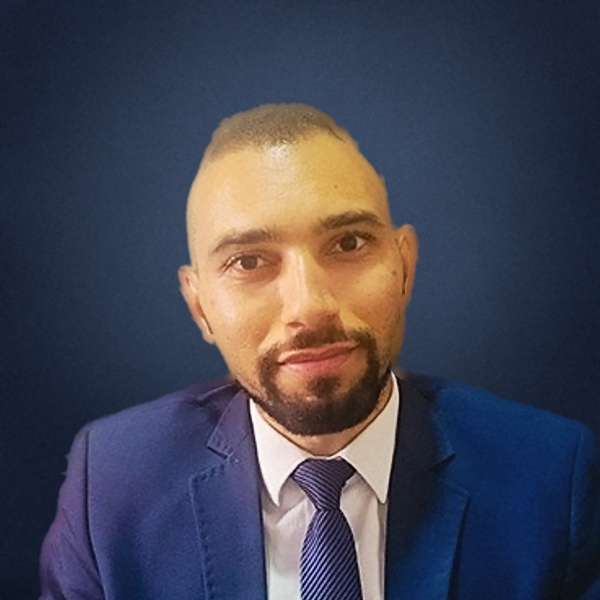
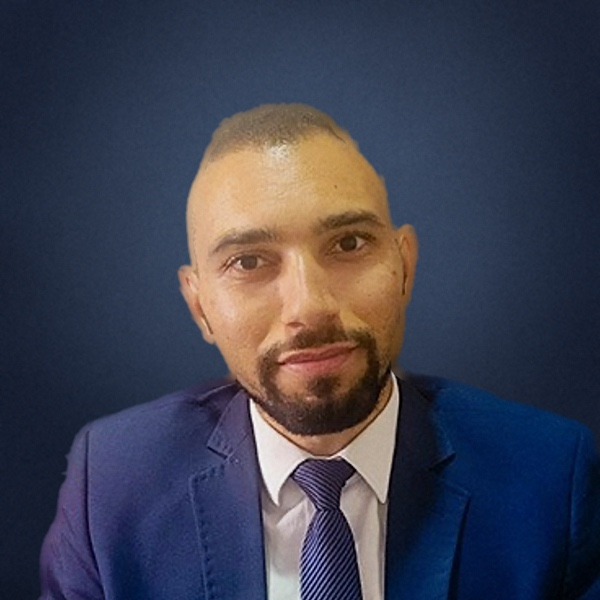
Équipe : Fatima Belassal et Siham Sabri retirées, portraits de Chakouri, Khalil et Tahiri refaits

Changed region(s): [[0.36, 0.36, 0.69, 0.66], [0.54, 0.3, 0.63, 0.36], [0.63, 0.63, 0.66, 0.72]]

diff --git a/ar/notre-equipe.html b/ar/notre-equipe.html
@@ -64,8 +64,6 @@
       <li class="member" data-reveal><div class="member-photo"><img src="../assets/img/equipe/sara-abassi.jpg" alt="الأستاذة سارة عباسي" width="600" height="600" loading="lazy"></div><h3>الأستاذة سارة عباسي</h3><p class="role">محامية</p><p class="role-en" lang="en">Lawyer</p></li>
       <li class="member" data-reveal><div class="member-photo"><img src="../assets/img/equipe/meryem-griou.jpg" alt="الأستاذة مريم كريو" width="600" height="600" loading="lazy"></div><h3>الأستاذة مريم كريو</h3><p class="role">محامية</p><p class="role-en" lang="en">Lawyer</p></li>
       <li class="member" data-reveal><div class="member-photo"><img src="../assets/img/equipe/mare-zakaria.jpg" alt="الأستاذ زكرياء الإدريسي" width="600" height="600" loading="lazy"></div><h3>الأستاذ زكرياء الإدريسي</h3><p class="role">محامٍ متمرن</p><p class="role-en" lang="en">Trainee lawyer</p></li>
-      <li class="member" data-reveal><div class="member-photo"><img src="../assets/img/equipe/fatima_belaasal.jpg" alt="فاطمة بلعسال" width="600" height="600" loading="lazy"></div><h3>فاطمة بلعسال</h3><p class="role">مسؤولة العلاقات مع المحاكم</p><p class="role-en" lang="en">Court relations manager</p></li>
-      <li class="member" data-reveal><div class="member-photo"><img src="../assets/img/equipe/siam.jpg" alt="سهام صبري" width="600" height="600" loading="lazy"></div><h3>سهام صبري</h3><p class="role">مسؤولة السكرتارية</p><p class="role-en" lang="en">Head of secretariat</p></li>
     </ul>
     <blockquote class="quote">
       <span class="quote-mark" aria-hidden="true" data-reveal>“</span>

diff --git a/es/notre-equipe.html b/es/notre-equipe.html
@@ -64,8 +64,6 @@
       <li class="member" data-reveal><div class="member-photo"><img src="../assets/img/equipe/sara-abassi.jpg" alt="Maître Sara ABASSI" width="600" height="600" loading="lazy"></div><h3>Maître Sara ABASSI</h3><p class="role">Abogada</p><p class="role-en" lang="en">Lawyer</p></li>
       <li class="member" data-reveal><div class="member-photo"><img src="../assets/img/equipe/meryem-griou.jpg" alt="Maître Meryem GRIOU" width="600" height="600" loading="lazy"></div><h3>Maître Meryem GRIOU</h3><p class="role">Abogada</p><p class="role-en" lang="en">Lawyer</p></li>
       <li class="member" data-reveal><div class="member-photo"><img src="../assets/img/equipe/mare-zakaria.jpg" alt="Maître Zakaria EL IDRISSI" width="600" height="600" loading="lazy"></div><h3>Maître Zakaria EL IDRISSI</h3><p class="role">Abogado en prácticas</p><p class="role-en" lang="en">Trainee lawyer</p></li>
-      <li class="member" data-reveal><div class="member-photo"><img src="../assets/img/equipe/fatima_belaasal.jpg" alt="Fatima Belassal" width="600" height="600" loading="lazy"></div><h3>Fatima Belassal</h3><p class="role">Responsable de relaciones con los tribunales</p><p class="role-en" lang="en">Court relations manager</p></li>
-      <li class="member" data-reveal><div class="member-photo"><img src="../assets/img/equipe/siam.jpg" alt="Siham SABRI" width="600" height="600" loading="lazy"></div><h3>Siham SABRI</h3><p class="role">Responsable de secretaría</p><p class="role-en" lang="en">Head of secretariat</p></li>
     </ul>
     <blockquote class="quote">
       <span class="quote-mark" aria-hidden="true" data-reveal>“</span>

diff --git a/notre-equipe.html b/notre-equipe.html
@@ -64,8 +64,6 @@
       <li class="member" data-reveal><div class="member-photo"><img src="assets/img/equipe/sara-abassi.jpg" alt="Maître Sara ABASSI" width="600" height="600" loading="lazy"></div><h3>Maître Sara ABASSI</h3><p class="role">Avocate</p><p class="role-en" lang="en">Lawyer</p></li>
       <li class="member" data-reveal><div class="member-photo"><img src="assets/img/equipe/meryem-griou.jpg" alt="Maître Meryem GRIOU" width="600" height="600" loading="lazy"></div><h3>Maître Meryem GRIOU</h3><p class="role">Avocate</p><p class="role-en" lang="en">Lawyer</p></li>
       <li class="member" data-reveal><div class="member-photo"><img src="assets/img/equipe/mare-zakaria.jpg" alt="Maître Zakaria EL IDRISSI" width="600" height="600" loading="lazy"></div><h3>Maître Zakaria EL IDRISSI</h3><p class="role">Apprenti avocat</p><p class="role-en" lang="en">Trainee lawyer</p></li>
-      <li class="member" data-reveal><div class="member-photo"><img src="assets/img/equipe/fatima_belaasal.jpg" alt="Fatima Belassal" width="600" height="600" loading="lazy"></div><h3>Fatima Belassal</h3><p class="role">Responsable des relations avec les tribunaux</p><p class="role-en" lang="en">Court relations manager</p></li>
-      <li class="member" data-reveal><div class="member-photo"><img src="assets/img/equipe/siam.jpg" alt="Siham SABRI" width="600" height="600" loading="lazy"></div><h3>Siham SABRI</h3><p class="role">Responsable Secrétariat</p><p class="role-en" lang="en">Head of secretariat</p></li>
     </ul>
     <blockquote class="quote">
       <span class="quote-mark" aria-hidden="true" data-reveal>“</span>

diff --git a/en/notre-equipe.html b/en/notre-equipe.html
@@ -64,8 +64,6 @@
       <li class="member" data-reveal><div class="member-photo"><img src="../assets/img/equipe/sara-abassi.jpg" alt="Maître Sara ABASSI" width="600" height="600" loading="lazy"></div><h3>Maître Sara ABASSI</h3><p class="role">Lawyer</p><p class="role-en" lang="en">Lawyer</p></li>
       <li class="member" data-reveal><div class="member-photo"><img src="../assets/img/equipe/meryem-griou.jpg" alt="Maître Meryem GRIOU" width="600" height="600" loading="lazy"></div><h3>Maître Meryem GRIOU</h3><p class="role">Lawyer</p><p class="role-en" lang="en">Lawyer</p></li>
       <li class="member" data-reveal><div class="member-photo"><img src="../assets/img/equipe/mare-zakaria.jpg" alt="Maître Zakaria EL IDRISSI" width="600" height="600" loading="lazy"></div><h3>Maître Zakaria EL IDRISSI</h3><p class="role">Trainee lawyer</p><p class="role-en" lang="en">Trainee lawyer</p></li>
-      <li class="member" data-reveal><div class="member-photo"><img src="../assets/img/equipe/fatima_belaasal.jpg" alt="Fatima Belassal" width="600" height="600" loading="lazy"></div><h3>Fatima Belassal</h3><p class="role">Court relations manager</p><p class="role-en" lang="en">Court relations manager</p></li>
-      <li class="member" data-reveal><div class="member-photo"><img src="../assets/img/equipe/siam.jpg" alt="Siham SABRI" width="600" height="600" loading="lazy"></div><h3>Siham SABRI</h3><p class="role">Head of secretariat</p><p class="role-en" lang="en">Head of secretariat</p></li>
     </ul>
     <blockquote class="quote">
       <span class="quote-mark" aria-hidden="true" data-reveal>“</span>
